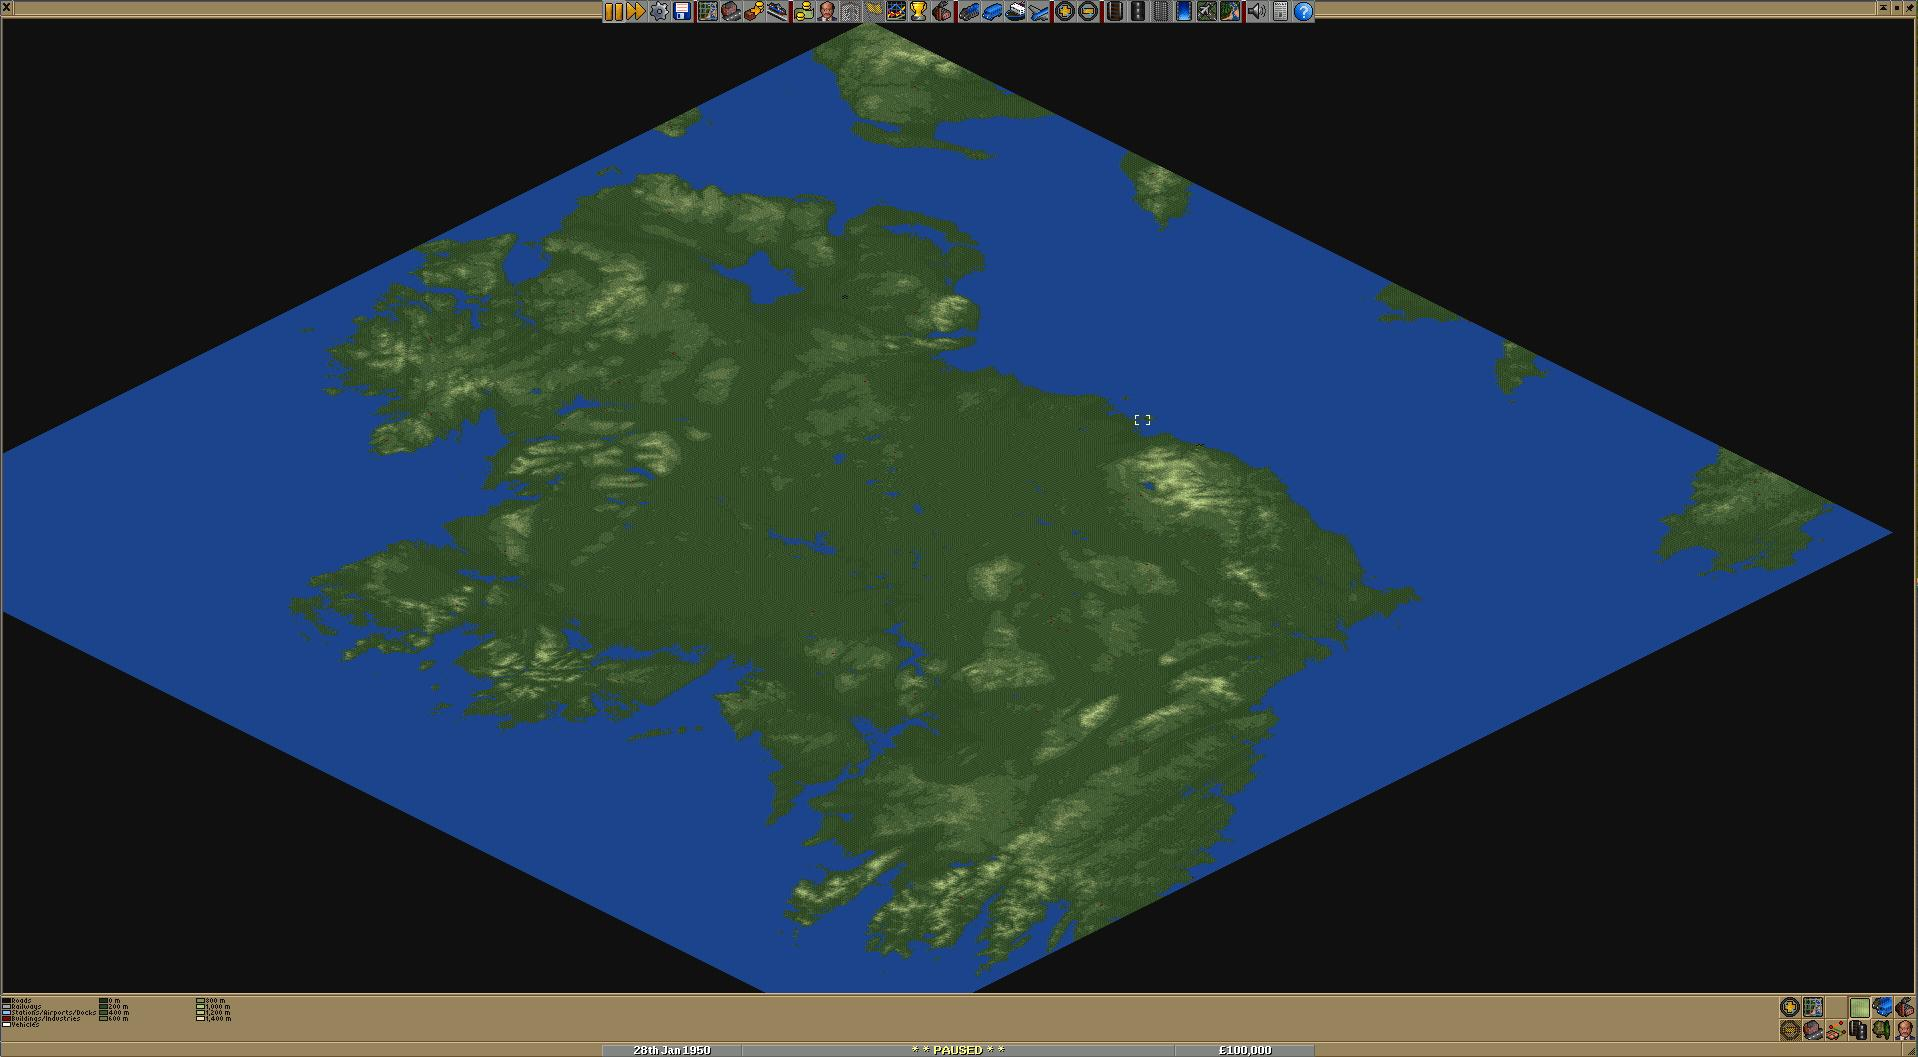
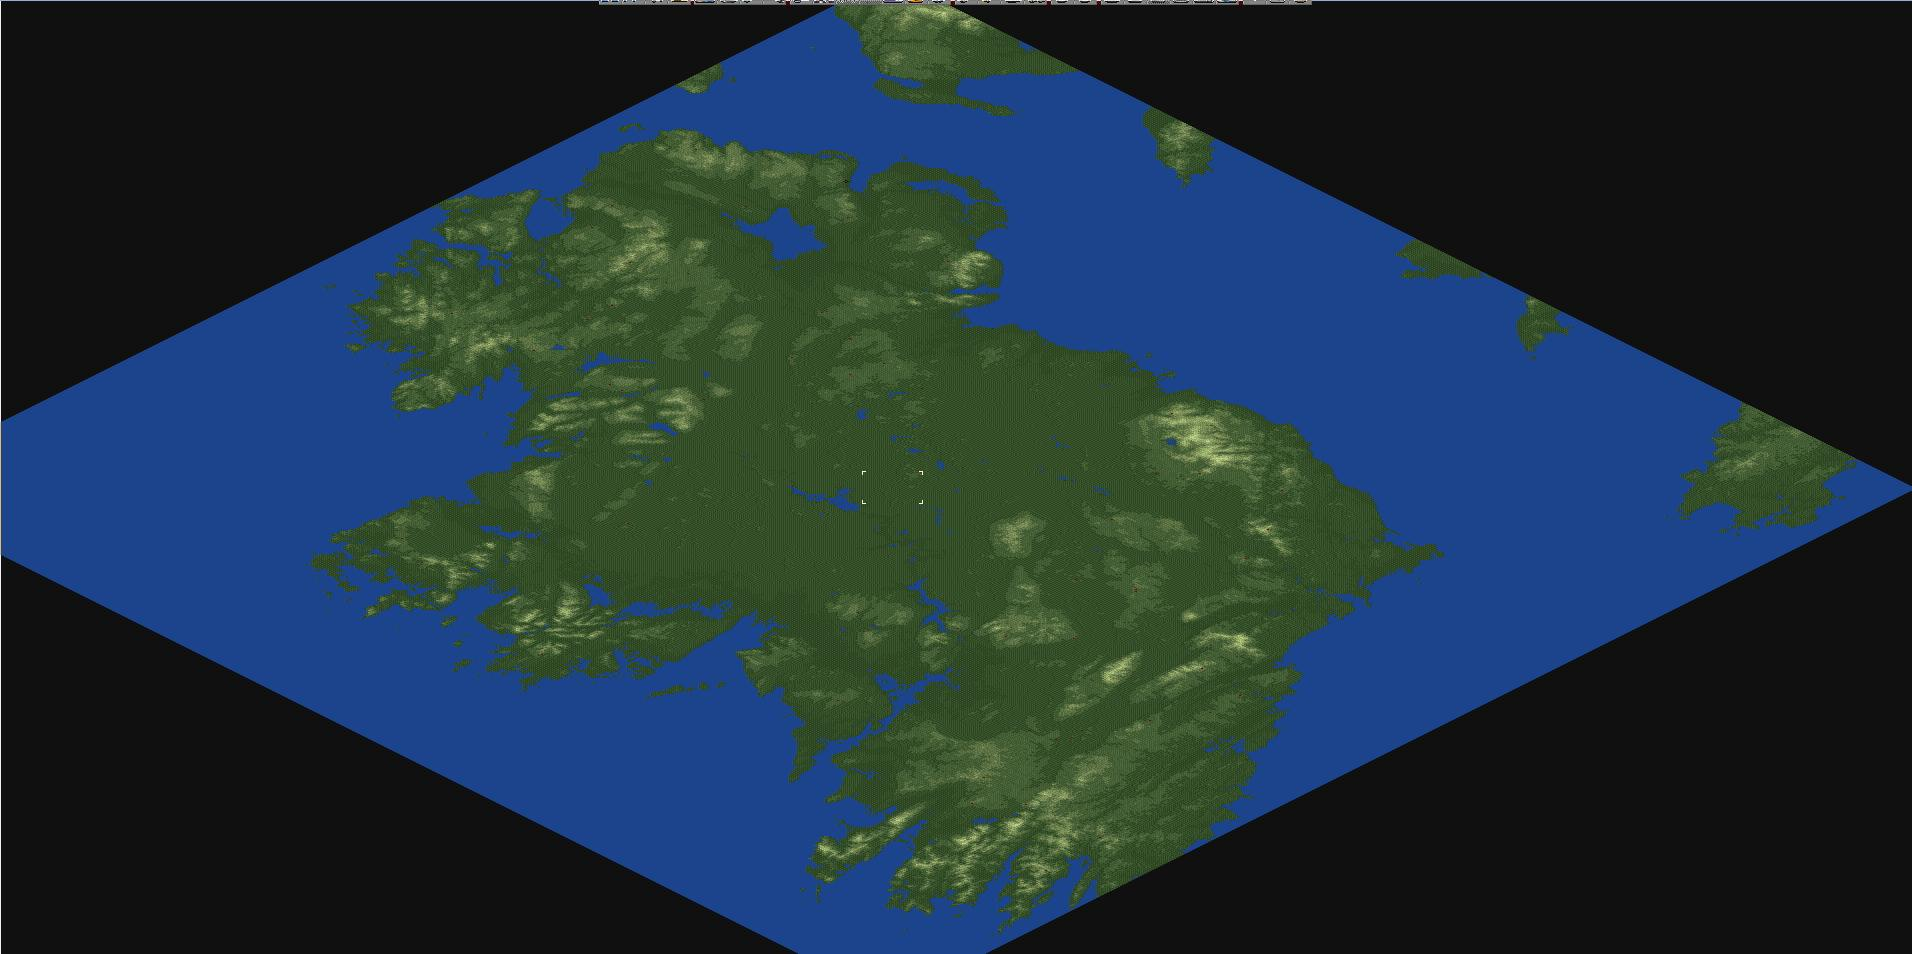
changing default CRS to EPSG 3857 and re-generating test examples.

diff --git a/test/test_bother.py b/test/test_bother.py
@@ -92,6 +92,7 @@ class BotherTestCase(unittest.TestCase):
         with open(os.path.join(EXAMPLES_DIR, 'ireland.tif'), 'rb') as f:
             memfile = MemoryFile(f)
             memfile = resample(memfile, 0.5)
+            memfile = reproject_raster(memfile, dst_crs='EPSG:3857')
             memfile = set_lakes_to_elev(memfile, 100)
             memfile = raise_low_pixels(memfile)
             im1 = to_png(memfile)
@@ -102,6 +103,7 @@ class BotherTestCase(unittest.TestCase):
         with open(os.path.join(EXAMPLES_DIR, 'ireland.tif'), 'rb') as f:
             memfile = MemoryFile(f)
             memfile = resample(memfile, 0.5)
+            memfile = reproject_raster(memfile, dst_crs='EPSG:3857')
             memfile = set_lakes_to_elev(memfile, 100)
             memfile = raise_low_pixels(memfile, max_brightness=170)
             im1 = to_png(memfile, False, 170)
@@ -115,14 +117,30 @@ class BotherTestCase(unittest.TestCase):
                 
         with open(os.path.join(EXAMPLES_DIR, 'titicaca.tif'), 'rb') as f:
             memfile = MemoryFile(f)
-            memfile = reproject_raster(memfile, dst_crs='EPSG:3857')
+            memfile = reproject_raster(memfile, dst_crs='EPSG:3395')
             memfile = set_lakes_to_elev(memfile, min_lake_size=80)
             im1 = to_png(memfile)
         with Image.open(os.path.join(EXAMPLES_DIR, 'titicaca_lakes_3857.png')) as im2:
             self._assert_images_equal(im1, im2)
+            
+        with open(os.path.join(EXAMPLES_DIR, 'titicaca.tif'), 'rb') as f:
+            memfile = MemoryFile(f)
+            memfile = reproject_raster(memfile, dst_crs='EPSG:4326')
+            memfile = set_lakes_to_elev(memfile, min_lake_size=80)
+            im1 = to_png(memfile)
+        with Image.open(os.path.join(EXAMPLES_DIR, 'titicaca_lakes_4326.png')) as im2:
+            self._assert_images_equal(im1, im2)
+        
+        with open(os.path.join(EXAMPLES_DIR, 'titicaca.tif'), 'rb') as f:
+            memfile = MemoryFile(f)
+            memfile = set_lakes_to_elev(memfile, min_lake_size=80)
+            im1 = to_png(memfile)
+        with Image.open(os.path.join(EXAMPLES_DIR, 'titicaca_lakes_4326.png')) as im2:
+            self._assert_images_equal(im1, im2)
         
         with open(os.path.join(EXAMPLES_DIR, 'alps.tif'), 'rb') as f:
             memfile = MemoryFile(f)
+            memfile = reproject_raster(memfile, dst_crs='EPSG:3857')
             im1 = to_png(memfile)
         with Image.open(os.path.join(EXAMPLES_DIR, 'alps.png')) as im2:
             self._assert_images_equal(im1, im2)
@@ -143,6 +161,7 @@ class BotherTestCase(unittest.TestCase):
         bottom, left, top, right = test_coords['germany_nw']
         with open(os.path.join(EXAMPLES_DIR, 'germany_nw.tif'), 'rb') as f:
             memfile = MemoryFile(f)
+            memfile = reproject_raster(memfile, dst_crs='EPSG:3857')
             memfile = raise_undersea_land(memfile, 1)
             memfile = raise_low_pixels(memfile, 0)
             im1 = to_png(memfile)

diff --git a/bother_utils/heightmap.py b/bother_utils/heightmap.py
@@ -19,7 +19,6 @@ from bother_utils.srtm import SRTM_NODATA
 
 
 WGS84 = 'EPSG:4326' # Mercator - The default CRS used in the STRM data
-WEB_MERCATOR = 'EPSG:3857' # Web Mercator - The projection used by Google Maps, OpenStreetMap, etc.
 
 #def handle_nodata(memfile: MemoryFile, set_to: int = 0, nodata: int = SRTM_NODATA) -> MemoryFile:
 #    

diff --git a/README.md b/README.md
@@ -34,7 +34,7 @@ Providing the `--scale-data` option followed by a number will resample the eleva
 
 ### Reprojecting
 
-By default, the data will be displayed using the [WGS 84](https://en.wikipedia.org/wiki/World_Geodetic_System#WGS84) (EPSG:4326) spatial reference system for mapping latitude / longitude coordinates to pixels.  If you would like to use some other spatial reference system, you can provide the `--epsg` option followed by the numerical EPSG code of the relevant system.  For example, providing `--epsg 3857` would result in the data being projected using the [Web Mercator projection](https://en.wikipedia.org/wiki/Web_Mercator_projection) that is used by most popular web-based mapping applications.
+By default, the data will be displayed using the [Web Mercator projection](https://en.wikipedia.org/wiki/Web_Mercator_projection) (EPSG:3857) spatial reference system for mapping latitude / longitude coordinates to pixels.  This is the projection that is used by most popular web-based mapping applications, such as Google Maps and OpenStreetMap.  If you would like to use some other spatial reference system, you can provide the `--epsg` option followed by the numerical EPSG code of the relevant system.
 
 ### Raising low (but above sea level) pixels
 
@@ -82,9 +82,9 @@ Provide the `--scale-image` option along with the desired resolution (in `WIDTHx
 
 ## Examples
 
-Here, we call Bother to create a PNG file of the rectangle bounded by 51.296094, -11.017116 to 55.596810, -4.403352 (roughly, the island of Ireland, with a bit of Scotland, Wales and the Isle of Man).  We tell Bother to downsample the data by half, reproject the data in the Web Mercator projection, detect lakes and raise any low-lying pixels.
+Here, we call Bother to create a PNG file of the rectangle bounded by 51.296094, -11.017116 to 55.596810, -4.403352 (roughly, the island of Ireland, with a bit of Scotland, Wales and the Isle of Man).  We tell Bother to downsample the data by half, detect lakes and raise any low-lying pixels.
 
-`bother --scale-data 0.5 --epsg 3857 --lakes --raise-low --bounds 51.296094 -11.017116 55.596810 -4.403352 ireland.png`
+`bother --scale-data 0.5 --lakes --raise-low --bounds 51.296094 -11.017116 55.596810 -4.403352 ireland.png`
 
 If all goes well, you should see (among other output) a message telling you that the output image size is 3151x3531.  We want the image to be 4096x4096 so we can play it as a large map in OpenTTD.  So we call Bother again, this time telling it to take the previously created PNG file, crop it to 3151x3151 (keeping the centre of the image, ie, removing the edges) and scale it to 4096x4096.
 
